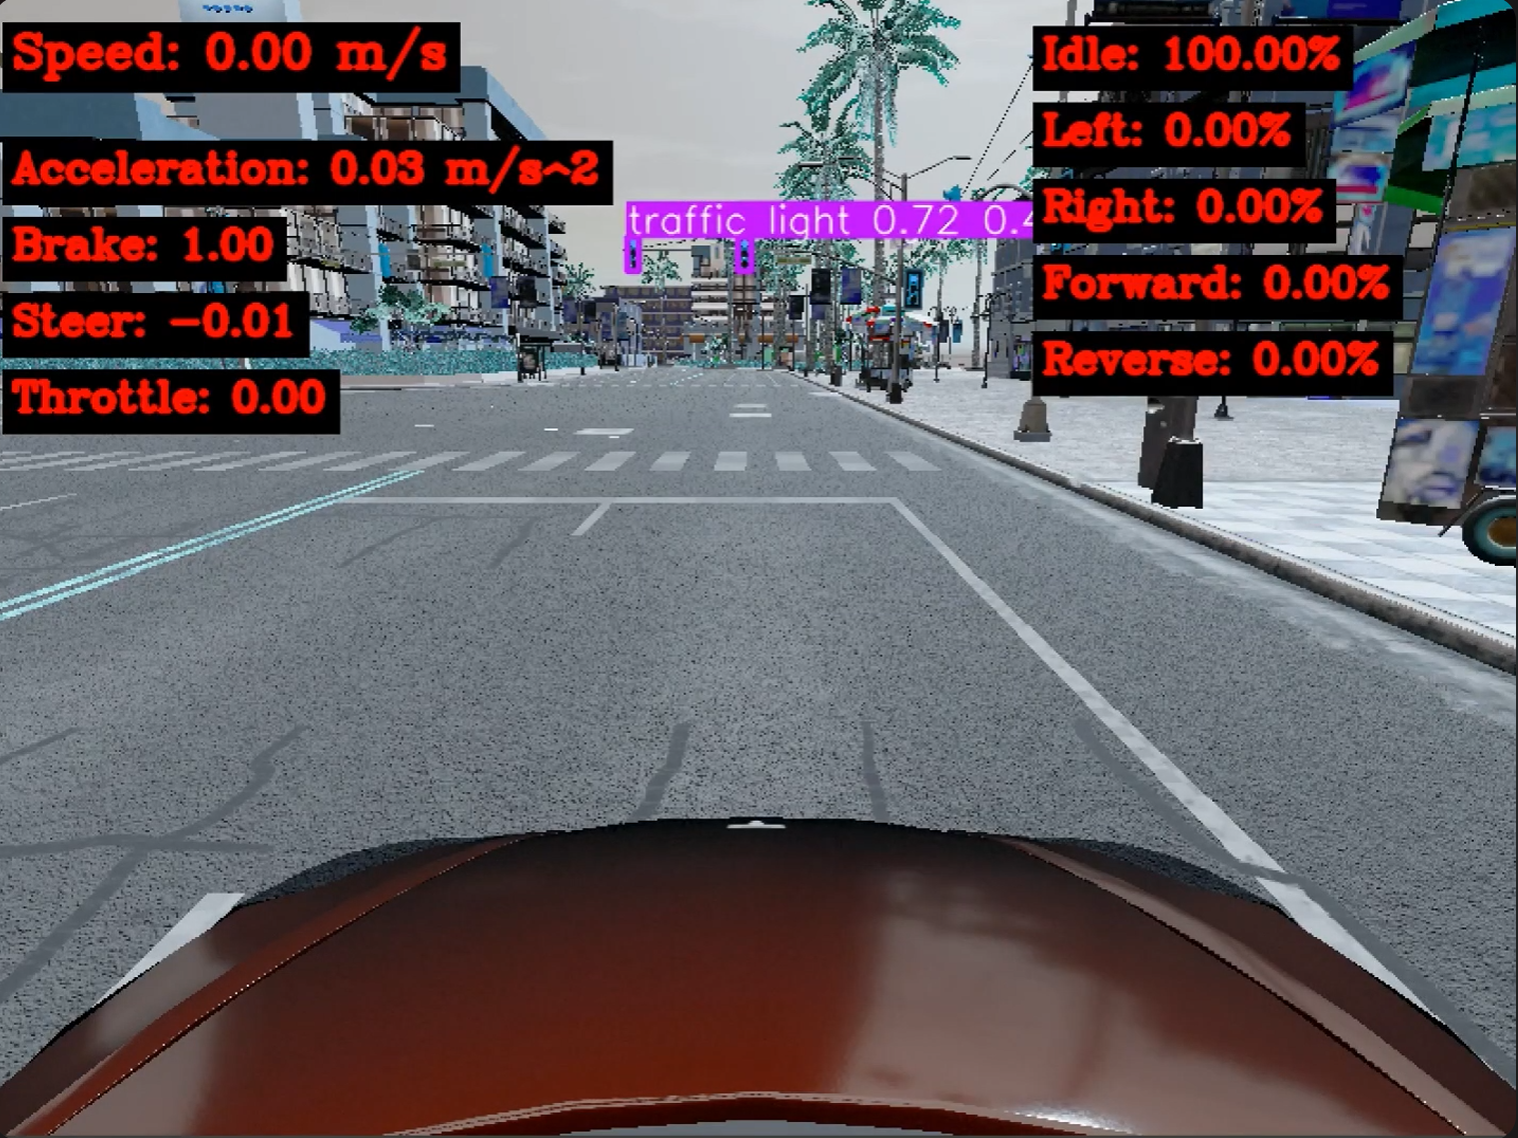
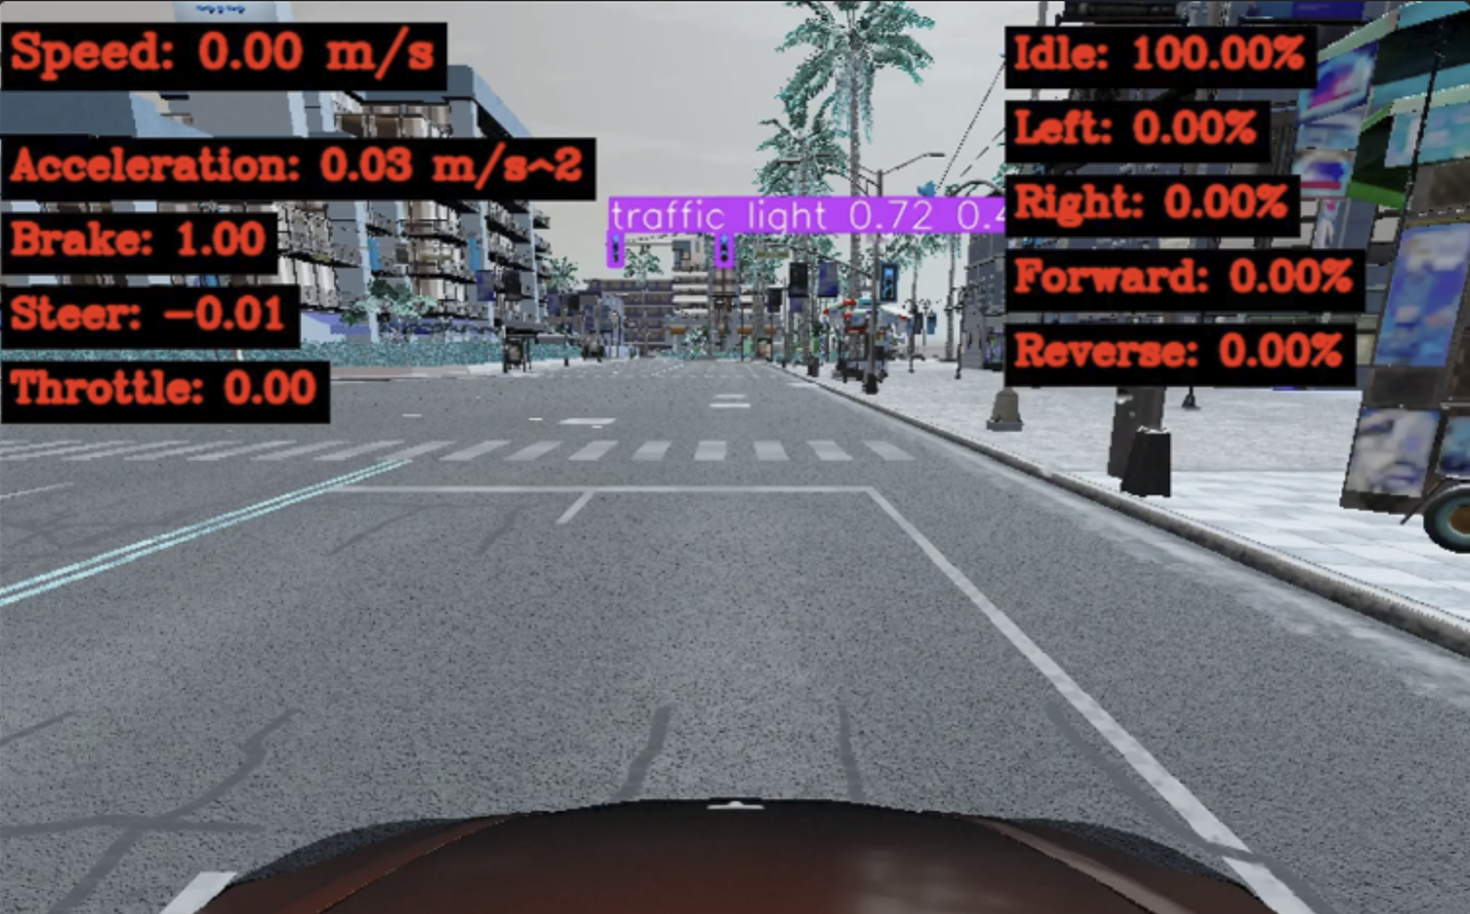
update

diff --git a/src/components/Projects.js b/src/components/Projects.js
@@ -26,10 +26,10 @@ const Projects = () => {
       id: 1,
       title: 'Autonomous Self-Driving Vehicle with CARLA',
       description:
-        'Developing a vision-based autonomous driving system in CARLA that performs real-time perception and decision-making from simulated sensor data.',
+        'Developing an autonomous driving dashboard in CARLA that performs real-time object detection and decision making.',
       // Placeholder: replace this with your CARLA thumbnail image.
       image: '/SelfDriving.png',
-      technologies: ['CARLA', 'YOLO', 'PyTorch'],
+      technologies: ['CARLA', 'YOLO', 'PyTorch', 'OpenCV'],
       projectUrl: 'https://github.com/AurickAnwar/Autonomous-Self-Driving-Vehicle'
     },
     {